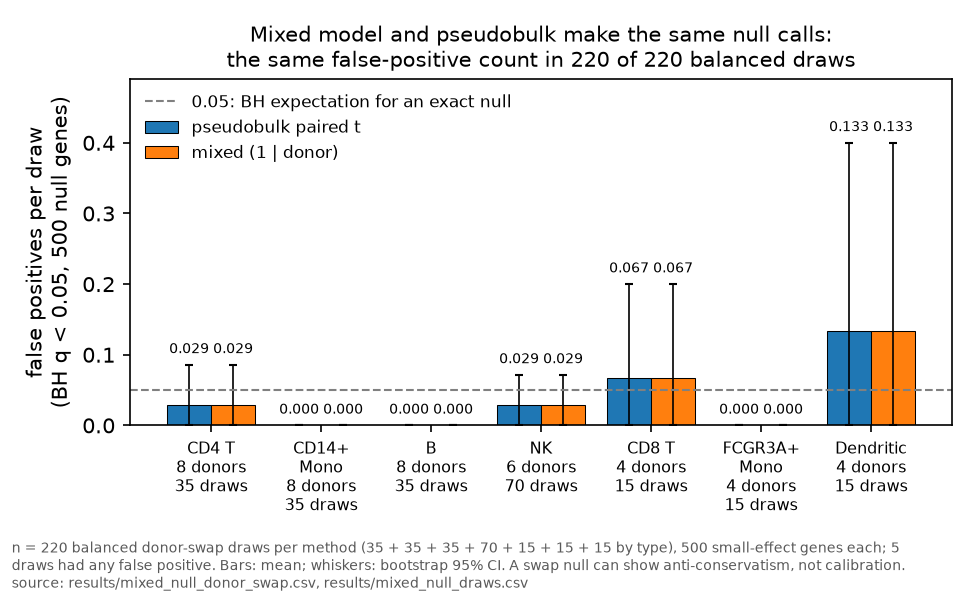
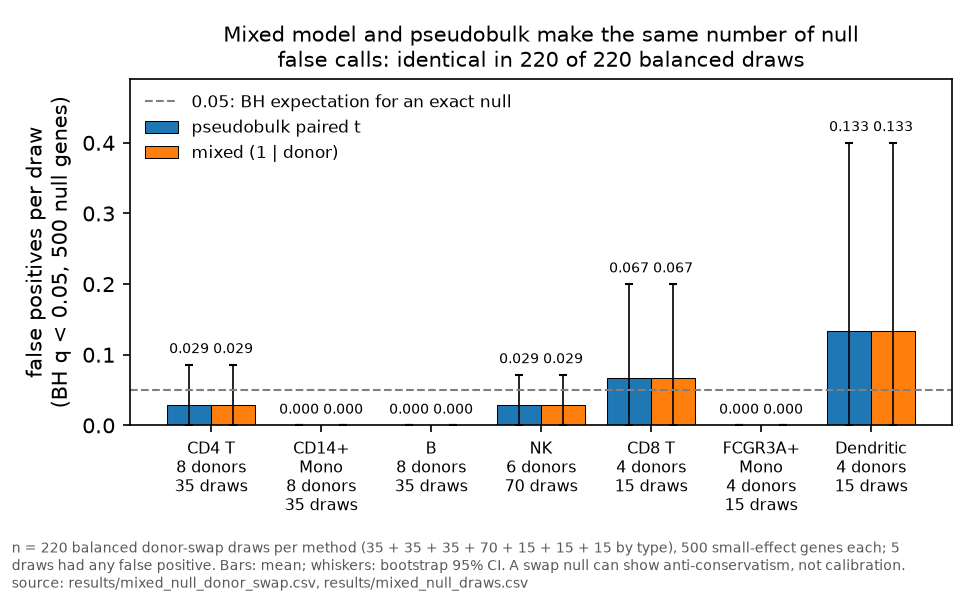
Fix two figure titles that stated more than the data holds
Vision review of all 42 figures (view_image -> Opus 5.5). Two single-cell titles
asserted something the artefacts do not support:

1. nbglm_null_anticonservative said the NB GLM makes false calls 'where
   pseudobulk makes none'. That is false where it matters: CD8 T cells is one of
   the highlighted anti-conservative types and pseudobulk makes 1 false call in
   15 draws there. The title now states the measured worst pseudobulk rate among
   the highlighted types instead of asserting zero. Verified against
   results/nbglm_real_null_balanced.csv (pseudobulk any-FP: 0/35, 0/35, 0/35,
   0/70, 1/15, 0/15, 0/15).

2. mixed_vs_pseudobulk_null said the two methods 'make the same null calls'.
   The artefacts store per-draw false-positive COUNTS, not call sets, so equal
   counts are what was measured and the same genes were never compared. Retitled
   to 'the same number of null false calls', which is the claim the data carry.

3. real_null said pseudobulk calls 0 false genes; the max over the 20 splits is
   1. Now reports median and max.

Figures regenerated; no other figure changed.

Changed region(s): [[0.2154, 0.03, 0.8923, 0.12]]

diff --git a/scripts/make_figures.py b/scripts/make_figures.py
@@ -276,7 +276,9 @@ def fig_real_null():
            ylabel=f"genes called significant\n(of {n_genes:,}, BH q < 0.05)",
            title="Real data (Kang 2018, CD14+ monocytes), donors shuffled:\n"
                  f"per-cell calls a median {df['per_cell'].median():.0f} false genes "
-                 f"per split, pseudobulk {df['pseudobulk'].median():.0f}")
+                 f"per split, pseudobulk a median "
+                 f"{df['pseudobulk'].median():.0f} "
+                 f"(max {df['pseudobulk'].max():.0f})")
     ax.title.set_fontsize(10)
     ax.set_xticks(df["split"] + 1)
     ax.legend(frameon=False, fontsize=8, loc="upper right")
@@ -394,8 +396,11 @@ def fig_mixed_null():
                                             pb["n_distinct_draws"])],
                        fontsize=7.5)
     ax.set(ylabel=f"false positives per draw\n(BH q < 0.05, {n_genes} null genes)",
-           title="Mixed model and pseudobulk make the same null calls:\n"
-                 f"the same false-positive count in {same} of {n_draws} balanced draws")
+           # Wording (2026-11-15): "make the same null calls" claimed the same
+           # GENES are called; the artefacts store per-draw counts, not call
+           # sets, so only the count is measured. Say what was measured.
+           title="Mixed model and pseudobulk make the same number of null\n"
+                 f"false calls: identical in {same} of {n_draws} balanced draws")
     ax.title.set_fontsize(10)
     ax.legend(frameon=False, fontsize=8, loc="upper left")
     _save(fig, "mixed_vs_pseudobulk_null.png",
@@ -1003,10 +1008,23 @@ def fig_at_a_glance():
     ax.set_ylim(0, 1.3)
     ax.set_yticks([0, 0.25, 0.5, 0.75, 1.0])
     more = 100 * (nbsum["n_nb"] / nbsum["n_pb"] - 1)
+    # Title honesty (2026-11-15): this said "where pseudobulk makes none", which
+    # is false for CD8 T cells - pseudobulk makes 1 false call in 15 draws
+    # there, and CD8 is one of the highlighted types. State the measured worst
+    # pseudobulk rate among the highlighted types instead of asserting zero.
+    pb_hot = [(int(pb.at[ct, "n_draws_with_any_fp"]), int(pb.at[ct, "draws"]))
+              for ct in hot]
+    pb_worst = max(pb_hot, default=(0, 0), key=lambda nd: nd[0] / max(nd[1], 1))
+    if pb_worst[0] == 0:
+        pb_clause = "where pseudobulk makes none"
+    else:
+        pb_clause = (f"where pseudobulk makes at most {pb_worst[0]}/{pb_worst[1]}"
+                     if pb_worst[0] <= 1 else
+                     f", where pseudobulk makes up to {pb_worst[0]}/{pb_worst[1]}")
     ax.set(ylabel="share of balanced null draws\nwith >= 1 false positive",
            title=f"NB GLM: {more.min():.0f}-{more.max():.0f}% more genes called, but false calls\n"
                  "on a balanced null in " + " and ".join(_short(ct) for ct in hot)
-                 + ",\nwhere pseudobulk makes none")
+                 + ",\n" + pb_clause)
     ax.title.set_fontsize(9.5)
     ax.legend(frameon=False, fontsize=8, loc="upper right")
     _panel_letter(ax, "D")
